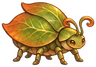
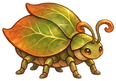
Leaf Beetle a fifth bigger (116 x 81)
Claude-Session: https://claude.ai/code/session_01FdNBSjX3EpmvbacjATUpjx

diff --git a/Assets/Scripts/Data/MonsterDefs.cs b/Assets/Scripts/Data/MonsterDefs.cs
@@ -126,7 +126,7 @@ namespace AshenVale
                 harmless = true, respawn = 45f, itemChance = .6f,
                 chestParts = new[] { Parts.ToadSlime, Parts.LurkerScale, Parts.ToadSlime, Parts.LurkerScale, Parts.WispEmber } },
             new MonsterDef { key = "leaf_beetle", name = "Leaf Beetle", level = 3, color = new Color(.62f, .45f, .2f),
-                width = .96f, height = .67f, hp = 85, speed = 1.1f, damage = 8, xp = 13, goldMin = 8, goldRange = 8,
+                width = 1.16f, height = .81f, hp = 85, speed = 1.1f, damage = 8, xp = 13, goldMin = 8, goldRange = 8,
                 part = Parts.SproutLeaf },
             new MonsterDef { key = "ember_fox", name = "Ember Fox", level = 5, color = new Color(.95f, .5f, .18f),
                 width = 1.1f, height = .85f, hp = 120, speed = 2.6f, damage = 13, xp = 18, goldMin = 12, goldRange = 9,

diff --git a/ART.md b/ART.md
@@ -164,7 +164,7 @@ Body sizes (width x height, in px at 100 px per unit) from `Assets/Scripts/Data/
 | `bog_lurker` | Bog Lurker | 13 | 140 x 110 |
 | `ash_wisp` | Ash Wisp | 14 | 80 x 90 (floats) |
 | `sunken_chest` | Sunken Chest | 15 | 110 x 90 |
-| `leaf_beetle` | Leaf Beetle | 3 | 96 x 67 (painted: idle 8 frames, move 8) |
+| `leaf_beetle` | Leaf Beetle | 3 | 116 x 81 (painted: idle 8 frames, move 8) |
 | `mossling` | Mossling | 4 | 80 x 89 (painted: idle 8 frames, move 8) |
 | `ember_fox` | Ember Fox | 5 | 110 x 85 |
 
